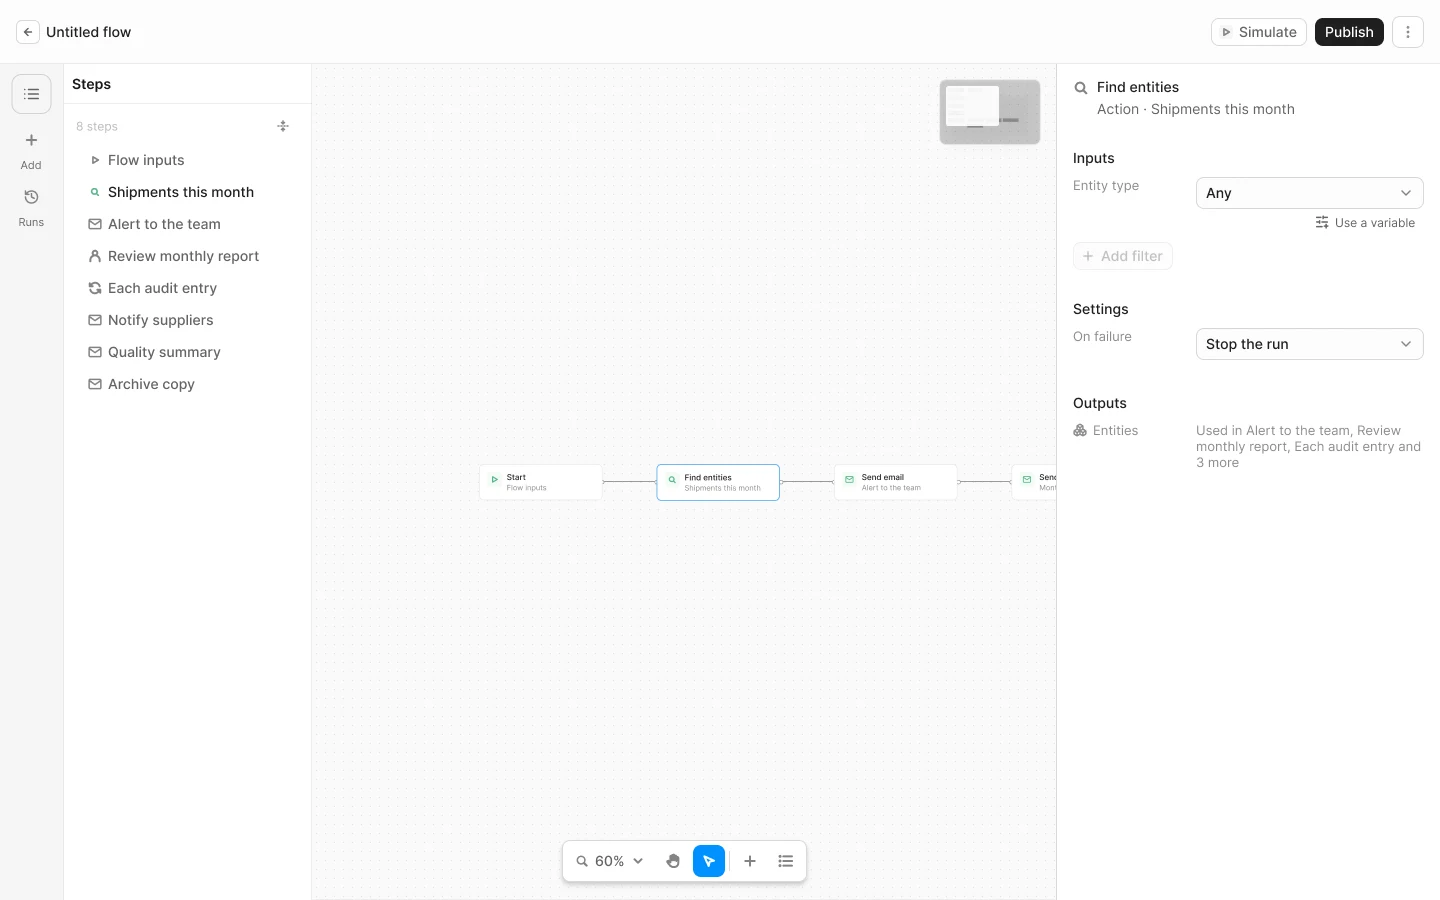
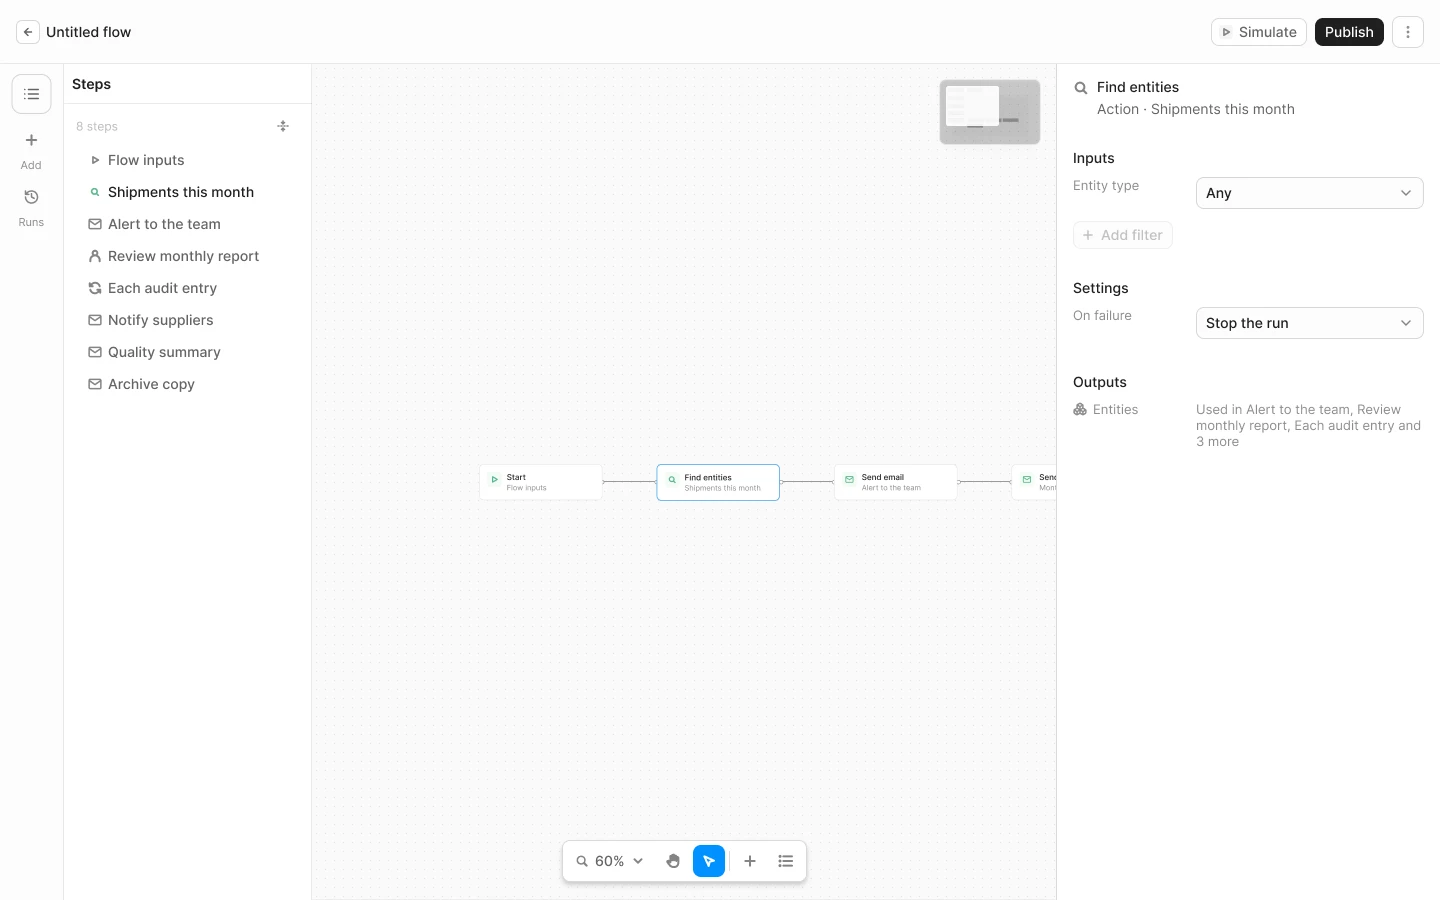
Flows editor: earlier-step values inside the Entity type menu
Follows the 2 Nov Figma change on Journeys. The "Use a variable" link
under Find entities' Entity type is gone. The Entity type dropdown now
has a search on top, Any and the types with their cube, then "From
earlier steps" with the flow inputs and earlier outputs that give a
type. Picking one reads "Flow inputs › Entity type".

J2.13 is now the menu open (955:23195) and J2.13a the value picked
(955:23337), both live. The old J2.13 (link plus a separate source
menu) is retired. Re-exports the placeholder frames whose Entity type
link went away.

diff --git a/libs/@hashintel/petrinaut/flows-editor-prototype/src/fields.tsx b/libs/@hashintel/petrinaut/flows-editor-prototype/src/fields.tsx
@@ -5,7 +5,9 @@ import {
   Button,
   Chip,
   Icon,
+  type ItemOrGroup,
   Menu,
+  type MenuItem,
   Select,
   Tooltip,
 } from "@hashintel/ds-components";
@@ -16,7 +18,7 @@ import {
   collapsePath,
   ConditionBuilder,
   tokenPath,
-  UseVariable,
+  VariableIcon,
 } from "./condition-builder";
 import {
   type DraftActionStep,
@@ -54,8 +56,8 @@ import {
   TemplatePreview,
 } from "./inline-chips";
 import { OpenMenu } from "./open-menu";
-import { describeSource, getSourceShape } from "./shapes";
-import { entityChoices, SourceMenu } from "./source-menu";
+import { describeSource, getSourceShape, sourceOptions } from "./shapes";
+import { entityChoices, SearchHeader, SourceMenu } from "./source-menu";
 import {
   errorTextStyle,
   firstAndMore,
@@ -1309,7 +1311,33 @@ export const ListField = ({ step, input, entry }: FieldProps) => {
  * Query builder (Journey 3): UI only, never SQL (ledger, 20 Oct). The rows live in `condition-builder.tsx`.
  * ------------------------------------------------------------------------------------------------------------- */
 
-/** Entity type with the same source menu: a fixed type, an earlier step, a flow input, or the graph (Journey 3, B2). */
+/** The Entity type menu's width in Figma (J2.13): 268 px, its right edge on the select's. */
+const entityTypeMenuStyle = css({
+  "&[class]": { width: "[268px]", minWidth: "[268px]", maxWidth: "[268px]" },
+  // Any has no icon: its label lines up with the group title, as Figma draws it.
+  "& [role=menuitem] > span[aria-hidden=true]:empty": { display: "none" },
+});
+
+/** An earlier-step row: the [x] glyph, then the value's name over where it comes from (Figma J2.13). */
+const earlierRowStyle = css({
+  display: "grid",
+  gridTemplateColumns: "[14px 1fr]",
+  columnGap: "2",
+  alignItems: "center",
+  "& svg": { color: "neutral.fg.muted" },
+});
+
+const earlierRowSubStyle = css({
+  gridColumn: "2",
+  textStyle: "xs",
+  color: "neutral.fg.subtle",
+});
+
+/**
+ * Entity type (Figma J2.13, 2 Nov): one dropdown with a search on top. The types first (Any, then each type with
+ * its cube), then "From earlier steps": the flow inputs and earlier outputs that give a type. A picked one reads
+ * "Flow inputs › Entity type" (J2.13a).
+ */
 const EntityTypeField = ({
   step,
   entry,
@@ -1323,16 +1351,19 @@ const EntityTypeField = ({
 }) => {
   const { document, ui, setUi } = useEditor();
   const anchorRef = useRef<HTMLDivElement>(null);
+  const [search, setSearch] = useState("");
   const open =
     ui.openField?.stepId === step.stepId &&
     ui.openField.inputName === "entityType";
-  const setOpen = (next: boolean) =>
+  const setOpen = (next: boolean) => {
+    setSearch("");
     setUi((current) => ({
       ...current,
       openField: next
         ? { stepId: step.stepId, inputName: "entityType", mode: "menu" }
         : null,
     }));
+  };
   const typeInput: InputView = {
     name: "entityType",
     label: "Entity type",
@@ -1343,9 +1374,102 @@ const EntityTypeField = ({
     sources: ["HASH graph @lookup", "Previous step"],
   };
   const selected = findEntityType(draft.entityTypeBaseUrl);
-  const sourceLook = draft.entityTypeSource
-    ? describeSource(document, draft.entityTypeSource, step.stepId)
+  const source = draft.entityTypeSource;
+  const sourceLook = source
+    ? describeSource(document, source, step.stepId)
     : null;
+  // A flow input is named after Start's "Flow inputs", as the steps list and Start's card call it.
+  const sourceOwner =
+    source?.kind === "flow-input" ? "Flow inputs" : sourceLook?.owner;
+
+  const text = search.trim().toLowerCase();
+  const matches = (label: string) => !text || label.toLowerCase().includes(text);
+  const pickType = (baseUrl: string | undefined) => {
+    update({
+      entityTypeBaseUrl: baseUrl,
+      entityTypeSource: undefined,
+      conditions: baseUrl === draft.entityTypeBaseUrl ? draft.conditions : [],
+    });
+    setOpen(false);
+  };
+  const typeItems: MenuItem[] = [
+    ...(matches("Any")
+      ? [
+          {
+            id: "type:any",
+            text: "Any",
+            selected: !source && !selected,
+            selectedStyle: "highlight" as const,
+            onClick: () => pickType(undefined),
+          },
+        ]
+      : []),
+    ...mockEntityTypes
+      .filter((type) => matches(type.title))
+      .map((type) => ({
+        id: `type:${type.baseUrl}`,
+        text: type.title,
+        icon: "cube" as const,
+        selected: !source && type.baseUrl === draft.entityTypeBaseUrl,
+        selectedStyle: "highlight" as const,
+        onClick: () => pickType(type.baseUrl),
+      })),
+  ];
+  const earlierItems: MenuItem[] = sourceOptions(
+    document,
+    step.stepId,
+    typeInput,
+    entry,
+  )
+    .filter(
+      (option) => matches(option.label) || matches(option.ownerLabel),
+    )
+    .map((option) => {
+      const from =
+        option.group === "Flow inputs"
+          ? `Flow inputs · ${option.ownerLabel}`
+          : option.ownerLabel;
+      return {
+        id: `earlier:${JSON.stringify(option.source)}`,
+        text: (
+          <span className={earlierRowStyle}>
+            <VariableIcon size={14} />
+            <span>{option.label}</span>
+            <span className={earlierRowSubStyle}>{from}</span>
+          </span>
+        ),
+        selected: JSON.stringify(option.source) === JSON.stringify(source),
+        selectedStyle: "highlight" as const,
+        onClick: () => {
+          update({ ...draft, entityTypeSource: option.source });
+          setOpen(false);
+        },
+      };
+    });
+  const items: Array<ItemOrGroup<MenuItem>> = [
+    ...(typeItems.length > 0
+      ? [{ id: "types", label: "", items: typeItems }]
+      : []),
+    ...(earlierItems.length > 0
+      ? [{ id: "earlier", label: "From earlier steps", items: earlierItems }]
+      : []),
+    ...(typeItems.length + earlierItems.length === 0
+      ? [
+          {
+            id: "nothing",
+            label: "",
+            items: [
+              {
+                id: "nothing",
+                text: `Nothing matches “${search}”`,
+                disabled: true,
+                onClick: () => {},
+              },
+            ],
+          },
+        ]
+      : []),
+  ];
 
   return (
     <div ref={anchorRef}>
@@ -1363,60 +1487,27 @@ const EntityTypeField = ({
         >
           {!sourceLook && selected ? <Icon name="cube" size="xs" /> : null}
           {sourceLook
-            ? `${sourceLook.owner} › ${sourceLook.label}`
+            ? `${sourceOwner} › ${sourceLook.label}`
             : // J2.2: the type defaults to Any.
               (selected?.title ?? "Any")}
         </span>
         <Icon name="chevronDown" size="sm" />
       </button>
-      {ui.plainQuery ? null : (
-        <div
-          className={css({
-            display: "flex",
-            justifyContent: "flex-end",
-            marginTop: "1.5",
-          })}
-        >
-          <UseVariable onClick={() => setOpen(true)} />
-        </div>
-      )}
       {open ? (
-        <SourceMenu
+        <OpenMenu
           anchor={anchorRef}
-          stepId={step.stepId}
-          input={typeInput}
-          entry={entry}
-          typedGroupLabel="Entity types"
-          typedChoices={mockEntityTypes.map((type) => ({
-            label: type.title,
-            hint: type.description,
-            selected:
-              !draft.entityTypeSource &&
-              type.baseUrl === draft.entityTypeBaseUrl,
-            source: {
-              kind: "constant",
-              payload: { kind: "VersionedUrl", value: type.entityTypeId },
-            },
-          }))}
+          position="bottom-end"
+          label="Choose Entity type"
+          className={entityTypeMenuStyle}
           onClose={() => setOpen(false)}
-          onPick={(source) => {
-            if (source.kind === "constant") {
-              const type = mockEntityTypes.find(
-                (candidate) => candidate.entityTypeId === source.payload.value,
-              );
-              update({
-                entityTypeBaseUrl: type?.baseUrl,
-                entityTypeSource: undefined,
-                conditions:
-                  type?.baseUrl === draft.entityTypeBaseUrl
-                    ? draft.conditions
-                    : [],
-              });
-            } else {
-              update({ ...draft, entityTypeSource: source });
-            }
-            setOpen(false);
-          }}
+          header={
+            <SearchHeader
+              value={search}
+              onChange={setSearch}
+              placeholder="Search values"
+            />
+          }
+          items={items}
         />
       ) : null}
     </div>

diff --git a/libs/@hashintel/petrinaut/flows-editor-prototype/src/screen-builds.ts b/libs/@hashintel/petrinaut/flows-editor-prototype/src/screen-builds.ts
@@ -117,6 +117,45 @@ const firstStep = () =>
     after: { stepId: START_ID, port: "next" },
   });
 
+/** J2.13 and J2.13a: a new Find entities after a Start that takes an entity type as a flow input. */
+const typeFromStart = (picked: boolean) => {
+  const { document, stepId } = addStep(
+    {
+      ...emptyDocument(),
+      inputs: [
+        {
+          name: "entityType",
+          label: "Entity type",
+          payloadKind: "VersionedUrl",
+          array: false,
+          required: true,
+        },
+      ],
+    },
+    "queryEntities",
+    { after: { stepId: START_ID, port: "next" } },
+  );
+  return {
+    stepId,
+    document: picked
+      ? {
+          ...document,
+          queries: {
+            ...document.queries,
+            [fieldKey(stepId, "query")]: {
+              ...document.queries[fieldKey(stepId, "query")],
+              conditions: [],
+              entityTypeSource: {
+                kind: "flow-input" as const,
+                inputName: "entityType",
+              },
+            },
+          },
+        }
+      : document,
+  };
+};
+
 /** J1.4's frame draws its cards at 90% and labels that 100%. */
 const ninetyPercent: Partial<EditorUi> = {
   viewport: { left: 40, top: 346, zoom: 0.9 },
@@ -356,6 +395,18 @@ export const screenBuilds: Record<string, () => ScreenBuild> = {
       selectedId: SHIPMENTS,
       showPortAddOn: SHIPMENTS,
     }),
+  // J2.13: the Entity type menu open, with Start's Entity type under "From earlier steps".
+  "J2.13": () => {
+    const { document, stepId } = typeFromStart(false);
+    return editor(document, {
+      selectedId: stepId,
+      openField: { stepId, inputName: "entityType", mode: "menu" },
+    });
+  },
+  "J2.13a": () => {
+    const { document, stepId } = typeFromStart(true);
+    return editor(document, { selectedId: stepId });
+  },
   // J2.6 keeps the whole query under the popover: Received date, Purity, and the Or group of suppliers.
   "J2.6": () =>
     editor(findScreenState("j3-a1")!.create().document, {

diff --git a/libs/@hashintel/petrinaut/flows-editor-prototype/src/screens.ts b/libs/@hashintel/petrinaut/flows-editor-prototype/src/screens.ts
@@ -301,11 +301,17 @@ export const figmaScreens: FigmaScreen[] = [
   },
   {
     id: "J2.13",
-    name: "Use a variable, menu open · flow: Untitled flow",
-    nodeId: "806:65614",
+    name: "Entity type menu, from earlier steps · flow: Untitled flow",
+    nodeId: "955:23195",
     section: "J2b · Pick a value for an input",
-    tag: "Ready after fix",
-    why: "first 3–4 values, then Show more",
+    tag: "Ready",
+  },
+  {
+    id: "J2.13a",
+    name: "Earlier-step value picked · flow: Untitled flow",
+    nodeId: "955:23337",
+    section: "J2b · Pick a value for an input",
+    tag: "Ready",
   },
   {
     id: "J2.16",

diff --git a/libs/@hashintel/petrinaut/flows-editor-prototype/src/condition-builder.tsx b/libs/@hashintel/petrinaut/flows-editor-prototype/src/condition-builder.tsx
@@ -1284,20 +1284,6 @@ const AddCondition = ({
   />
 );
 
-/** "Use a variable": the same picker as "@", for the field it sits under. A DS ghost Button with the [x] glyph. */
-export const UseVariable = ({
-  onClick,
-  open,
-}: {
-  onClick: () => void;
-  /** Pressed while its picker is open. */
-  open?: boolean;
-}) => (
-  <Button size="xs" variant="ghost" pressed={open} onClick={onClick}>
-    <VariableRow />
-  </Button>
-);
-
 export const ConditionBuilder = ({
   step,
   input,
